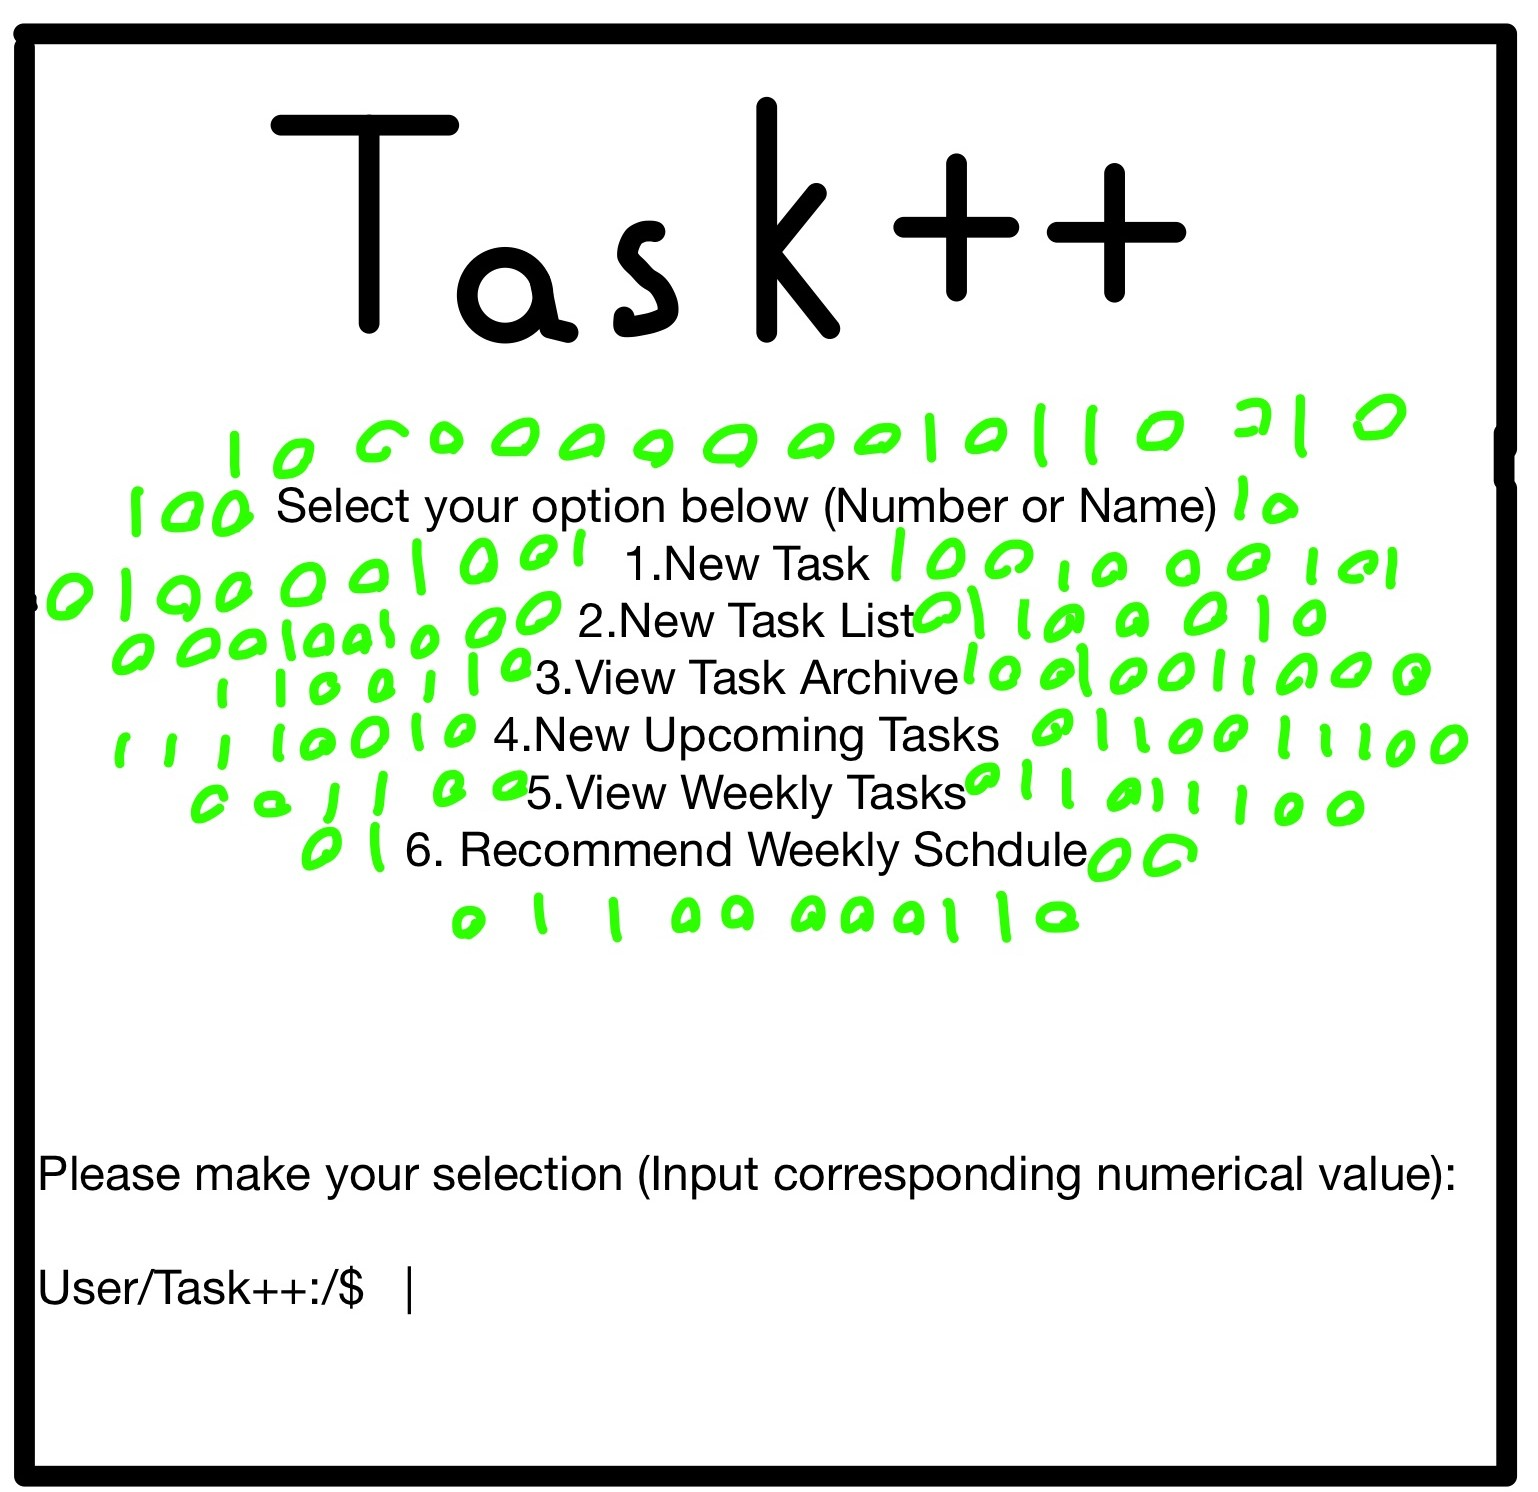
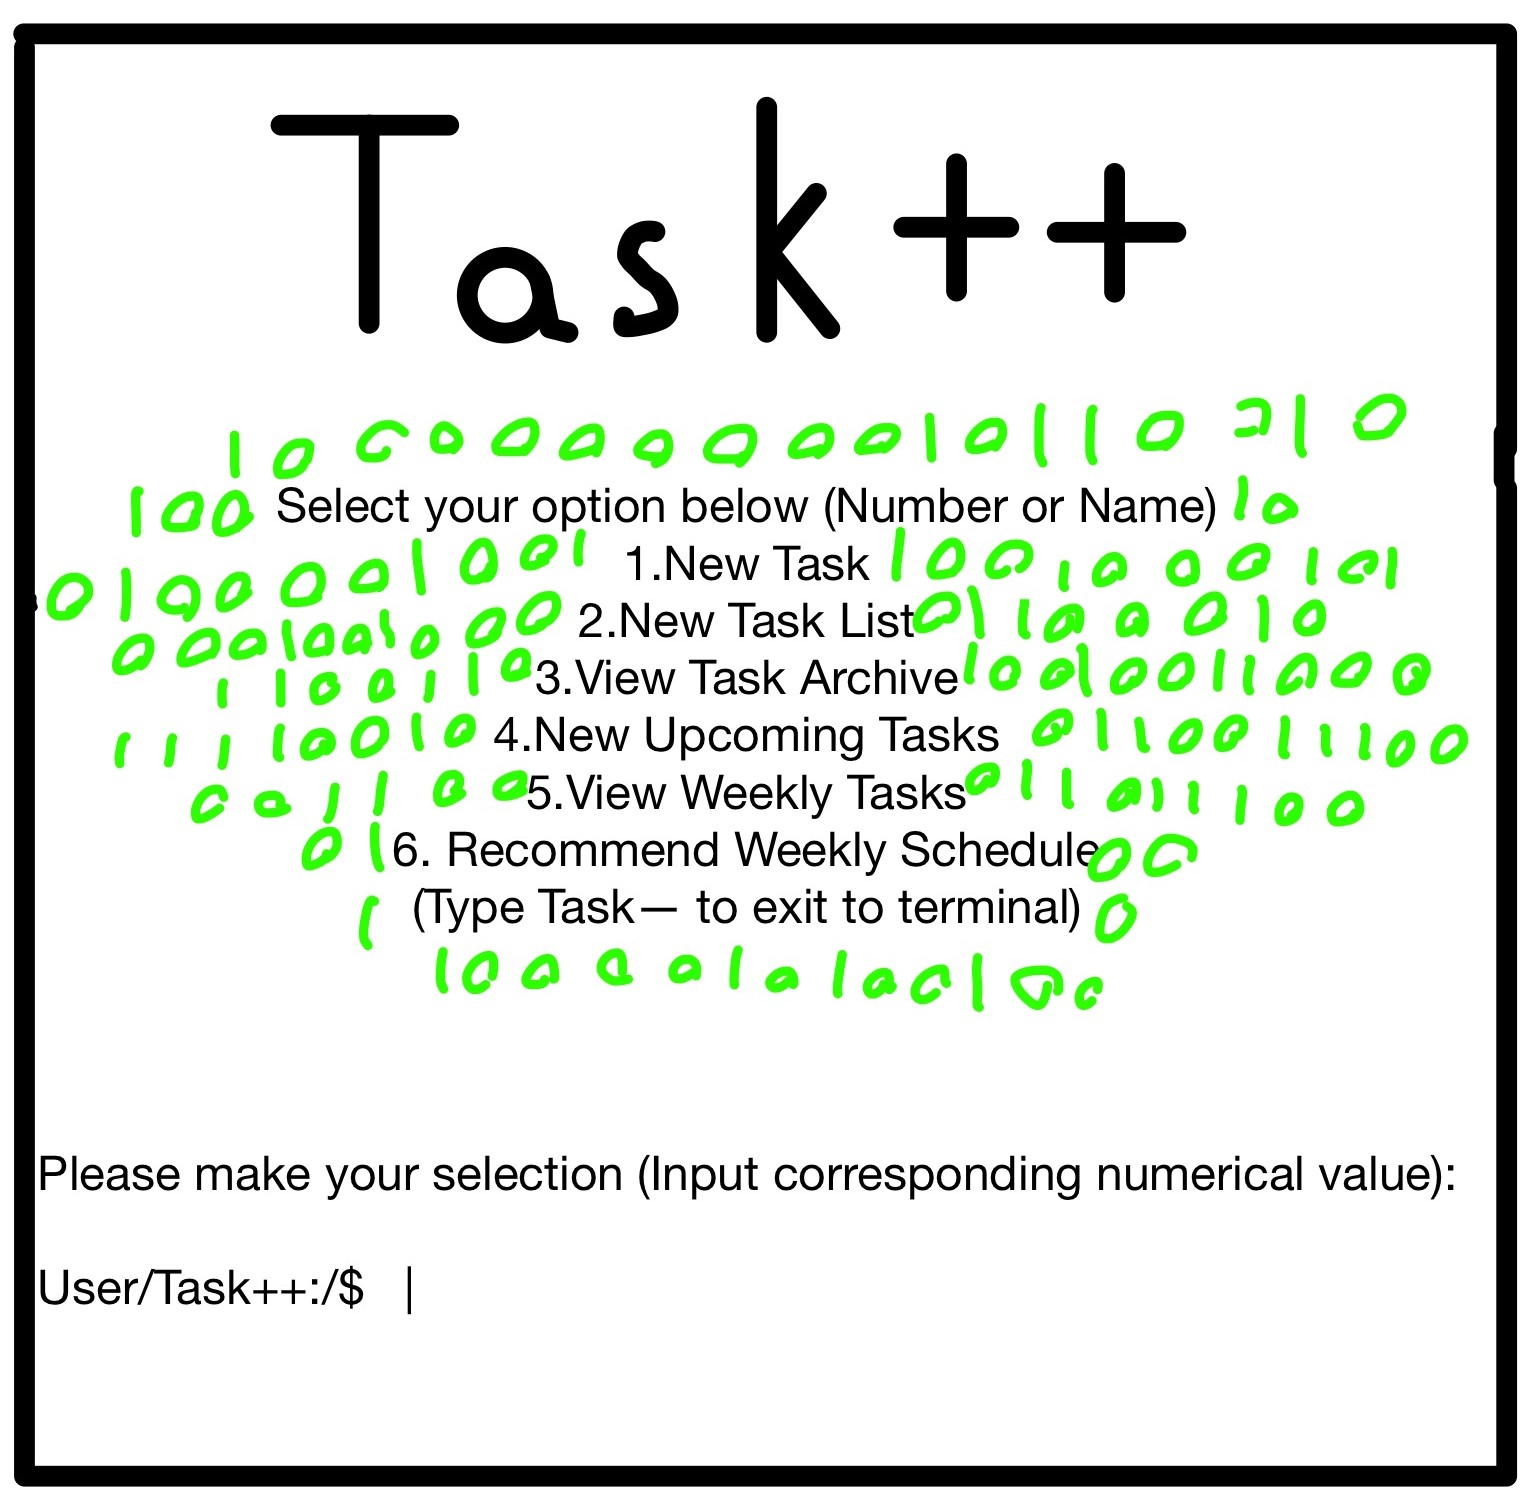
Adjusting readme and images for minor fixes

diff --git a/README.md b/README.md
@@ -81,28 +81,28 @@ Once you boot the program, you will be taken to the home screen and will have mu
 
 ### Screen Layouts
 ![Home Screen](https://github.com/cs100/final-project-btran159-nsnod001-rgujr001-surib013/blob/master/images/Home_Screen.jpg)\
-The home screen prompts the user to enter their preferred action. Options include creating a new task, creating a new list, viewing the archive, checking weekly tasks, examining upcoming tasks, and selecting the weekly schedule recommender. The user can type their choice, and the program will parse it to determine the next course of action. There's also an exit option for users to leave the program when they're done.
+The home screen prompts the user to enter their preferred action. Options include creating a new task, creating a new list, viewing the archive, checking weekly tasks, examining upcoming tasks, and selecting the weekly schedule recommender. The user can type their choice, and the program will parse it to determine the next course of action. There's also an exit option for users to leave the program when they're done. User can type Task-- to back out and return to the terminal.
 
 ![New Task](https://github.com/cs100/final-project-btran159-nsnod001-rgujr001-surib013/blob/master/images/New_Task.jpg)\
-When creating a new task, users are required to input the task name, task description, priority, due date, assigned date, and whether they want to assign it to an existing list or not. While on this screen, users have the flexibility to edit the task description extensively. They can undo any possible mistakes when given the final option to confirm. After they're satisfied with the changes, users can choose to return to the home screen.
+When creating a new task, users are required to input the task name, task description, priority, due date, assigned date, and whether they want to assign it to an existing list or not. While on this screen, users have the flexibility to edit the task description extensively. They can undo any possible mistakes when given the final option to confirm. After they're satisfied with the changes, users can choose to return to the home screen. User can type Task-- to back out and return to the home screen.
 
 ![New List](https://github.com/cs100/final-project-btran159-nsnod001-rgujr001-surib013/blob/master/images/New_List.jpg)\
-Users can specify a list name and provide a description or any relevant information about the list's purpose. After naming the list and providing the description, users are given the option to pivot to the new task screen with the "add task" option.
+Users can specify a list name and provide a description or any relevant information about the list's purpose. After naming the list and providing the description, users are given the option to pivot to the new task screen with the "add task" option. User can type Task-- to back out and return to the home screen.
 
 ![Task Editor](https://github.com/cs100/final-project-btran159-nsnod001-rgujr001-surib013/blob/master/images/Task_Editor.jpg)\
-When tasks are selected for editing, users are taken to the edit screen. This edit screen displays all current data of the task, including the title, priority, due date, assigned date, description, and whether it has an assigned list or not. Users have the option to continue editing aspects of the task or confirm their changes.
+When tasks are selected for editing, users are taken to the edit screen. This edit screen displays all current data of the task, including the title, priority, due date, assigned date, description, and whether it has an assigned list or not. Users have the option to continue editing aspects of the task or confirm their changes. User can type Task-- to back out and return to the home screen.
 
 ![List Editor](https://github.com/cs100/final-project-btran159-nsnod001-rgujr001-surib013/blob/master/images/List_Editor.jpg)\
-When lists are selected for editing, users are taken to the list editor screen. The edit screen displays all the data of the current list, including the title and the description. Users are given the option to continue editing aspects of the list or confirm their changes.
+When lists are selected for editing, users are taken to the list editor screen. The edit screen displays all the data of the current list, including the title and the description. Users are given the option to continue editing aspects of the list or confirm their changes. User can type Task-- to back out and return to the home screen.
 
 ![Weekly View](https://github.com/cs100/final-project-btran159-nsnod001-rgujr001-surib013/blob/master/images/Weekly.jpg)\
-Users are presented with a calendar of the current week when viewing weekly tasks, with each task displayed alongside its due date. Users can manage the entire week or select individual days of the week. Actions include editing, archiving, deleting, or marking tasks as complete for the week or specific days. Users can also edit individual tasks on specific days. Users can also view the progress bar for the percentage of tasks they have completed for the week.
+Users are presented with a calendar of the current week when viewing weekly tasks, with each task displayed alongside its due date. Users can manage the entire week or select individual days of the week. Actions include editing, archiving, deleting, or marking tasks as complete for the week or specific days. Users can also edit individual tasks on specific days. Users can also view the progress bar for the percentage of tasks they have completed for the week. User can type Task-- to back out and return to the home screen.
 
 ![Upcoming View](https://github.com/cs100/final-project-btran159-nsnod001-rgujr001-surib013/blob/master/images/Upcoming.jpg)\
-Users get to see an overall list of undated tasks as well as their weekly tasks assigned to days beyond the current week. Users can edit, delete, archive, or mark tasks and lists as complete. They can also manage tasks within the selected lists.
+Users get to see an overall list of undated tasks as well as their weekly tasks assigned to days beyond the current week. Users can edit, delete, archive, or mark tasks and lists as complete. They can also manage tasks within the selected lists. User can type Task-- to back out and return to the home screen.
 
 ![Archive View](https://github.com/cs100/final-project-btran159-nsnod001-rgujr001-surib013/blob/master/images/Archive.jpg)\
-Users can view all archived lists and tasks and choose between the two options. They can enter a number corresponding to the task or list in the selected category. Users can also see the automated completed task list, which stores all completed tasks and lists. Options include editing, deleting, uploading, or marking as complete. Uploading allows users to move archived weeks into a new week for easier week creation.
+Users can view all archived lists and tasks and choose between the two options. They can enter a number corresponding to the task or list in the selected category. Users can also see the automated completed task list, which stores all completed tasks and lists. Options include editing, deleting, uploading, or marking as complete. Uploading allows users to move archived weeks into a new week for easier week creation. User can type Task-- to back out and return to the home screen.
 
 ## Class Diagram
  > Include a **class diagram(s)** for your project and a **description** of the diagram(s). Your class diagram(s) should include all the main classes you plan for the project. This should be in sufficient detail that another group could pick up the project this point and successfully complete it. Use proper UML notation (as discussed in the course slides).
